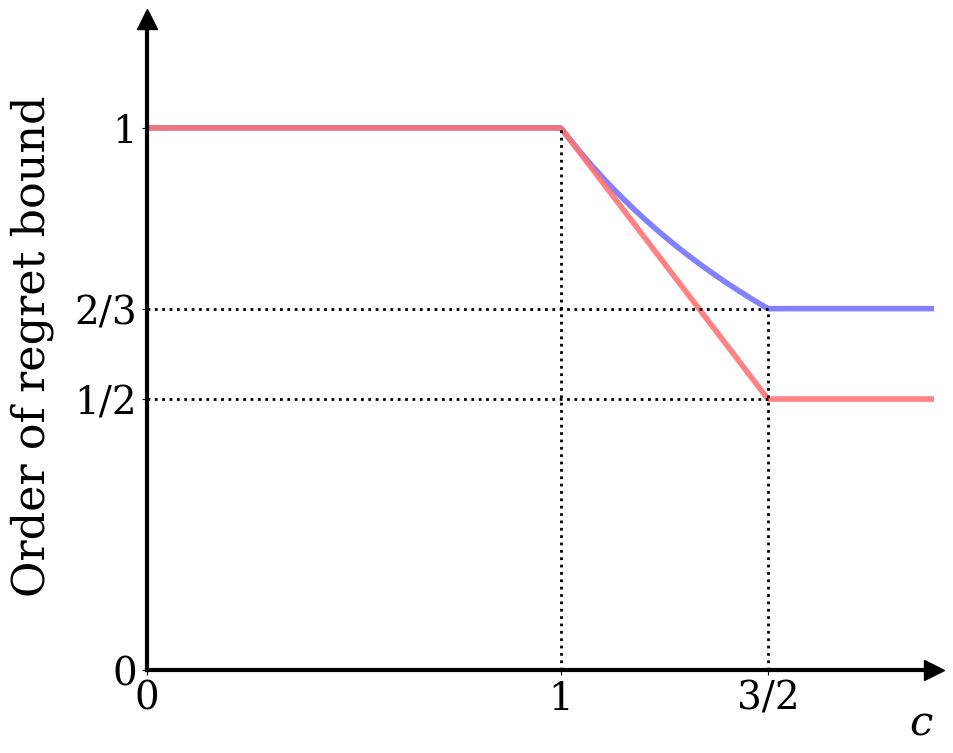
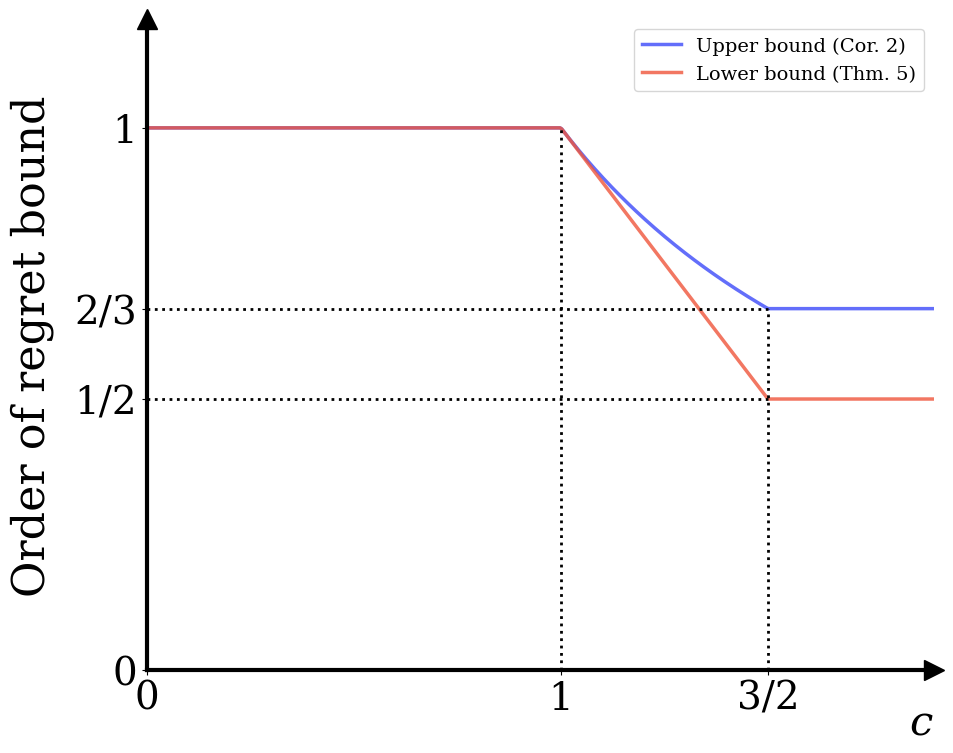
change

diff --git a/index.html b/index.html
@@ -256,7 +256,7 @@
         \]
       </div>
       <p class="is-size-7">
-        This class \(\mathcal{A}_c\) acts as a structural separator: a larger \(c\) corresponds to slower outcome growth ("easy" instances), while a smaller \(c\) indicates faster growth ("difficult" instances) [cite: 591-592, 644-645].
+        This class \(\mathcal{A}_c\) acts as a structural separator: a larger \(c\) corresponds to slower outcome growth (easy instances), while a smaller \(c\) indicates faster growth (difficult instances).
       </p>
     </div>
 
@@ -272,7 +272,7 @@
 
         <div class="box content mt-5" style="border-left: 5px solid #ee5253; background-color: #f9f9f9;">
           <h4 class="title is-5" style="color: #2c3e50;">Regret Lower Bound (Theorem 5)</h4>
-          <p>For any policy acting on the class \(\mathcal{A}_c\), the worst-case regret is bounded by:</p>
+          <p>For any algorithm on the class \(\mathcal{A}_c\), the worst-case regret is bounded by:</p>
           <div class="has-text-centered my-4">
             \[ \min_{\pi} \max_{\nu \in \mathcal{A}_c} Reg_{\nu}(\pi, T) = \Omega\left(\max\{\sqrt{T}, T^{2-c}\}\right) \]
           </div>
@@ -283,7 +283,7 @@
         <div class="box" style="background-color: #ffffff;">
           <img src="static/images/bound_gap.png" alt="Figure 3: Regret Bound Gap" style="width: 100%; height: auto;"/>
           <p class="is-size-7 mt-2">
-            <strong>Figure 3: Regret bound gap.</strong> The orders of our upper and lower bounds closely match across varying growth rates \(c\), establishing theoretical tightness[cite: 647, 653].
+            <strong>Figure 3: Regret bound gap.</strong> The orders of our upper and lower bounds closely match across varying growth rates \(c\), establishing theoretical tightness.
           </p>
         </div>
       </div>
@@ -292,7 +292,8 @@
     <div class="content has-text-justified mt-5">
       <h3 class="title is-5">Interpretation</h3>
       <p>
-        As illustrated in <strong>Figure 3</strong>, the gap between our upper and lower bounds is minimal. CRUCB effectively adapts to varying problem difficulties without prior knowledge of the growth parameter \(c\), ensuring robustness across diverse rising reward scenarios [cite: 648-649].
+        As illustrated in <strong>Figure 3</strong>, the gap between our upper and lower bounds is minimal. CRUCB effectively adapts to varying problem difficulties without prior knowledge of the growth parameter \(c\), ensuring robustness across diverse rising reward scenarios.
+        Please refer to our paper for the regret upper and lower bounds on the more general classes of instances.
       </p>
     </div>
   </div>
